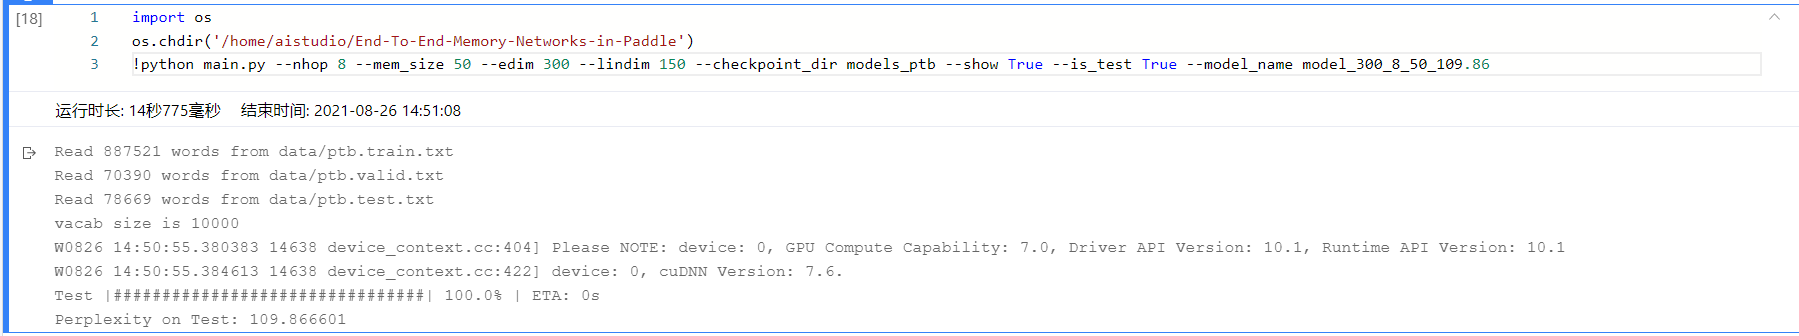
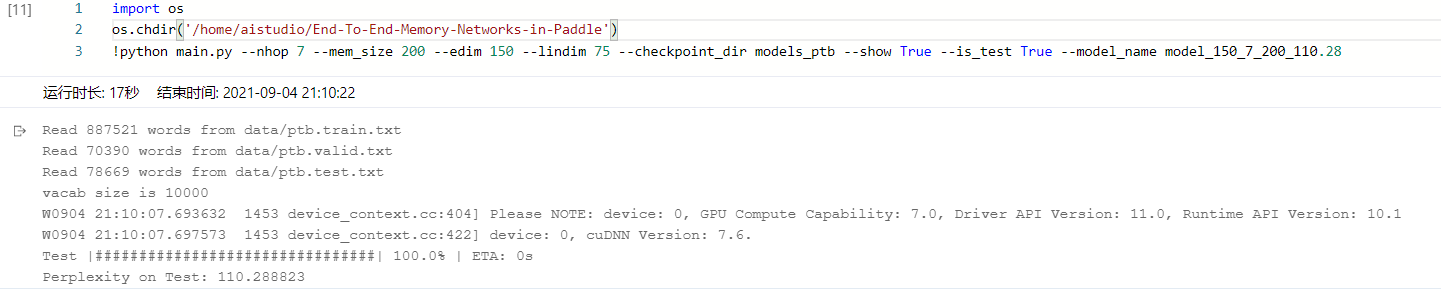
second completion

Changed region(s): [[0.0, 0.0, 1.0, 1.0]]

diff --git a/data.py b/data.py
@@ -4,18 +4,22 @@ from collections import Counter
 
 def read_data(fname, word2idx):
     """
-    data被处理成了一个一维向量，每一个值都是一个单词对应的编码，2个句子之间采用特殊字符<eos>分隔。
+    data被处理成了一个一维向量，每一个值都是一个单词对应的编码，
+    2个句子之间采用特殊字符<eos>分隔。
+    :param fname: 要读取的文件名
+    :param word2idx: 词典
+    :return: 处理好的词向量
     """
     if os.path.isfile(fname):
         with open(fname) as f:
             lines = f.readlines()
     else:
-        raise(Exception("[!] Data %s not found" % fname))
+        raise (Exception("[!] Data %s not found" % fname))
 
     words = []
     for line in lines:
         words.extend(line.split())
-    
+
     print("Read %s words from %s" % (len(words), fname))
 
     data = list()
@@ -26,7 +30,13 @@ def read_data(fname, word2idx):
         data.append(word2idx['<eos>'])
     return data
 
+
 def load_vocab(fname):
+    """
+    加载词典
+    :param fname: 词典存储名
+    :return: 词典
+    """
     word2idx = {}
     with open(fname, "r") as f:
         for line in f:

diff --git a/main.py b/main.py
@@ -43,18 +43,22 @@ config = parser.parse_args()
 if __name__ == '__main__':
     paddle.set_device("gpu")
 
-    vocab_path = os.path.join(config.data_dir, "%s.vocab.txt" % config.data_name)
+    vocab_path = os.path.join(config.data_dir,
+                              "%s.vocab.txt" % config.data_name)
     word2idx = load_vocab(vocab_path)
 
     if not os.path.exists(config.checkpoint_dir):
         os.makedirs(config.checkpoint_dir)
 
     train_data = read_data(
-        os.path.join(config.data_dir, "%s.train.txt" % config.data_name), word2idx)
+        os.path.join(config.data_dir, "%s.train.txt" % config.data_name),
+        word2idx)
     valid_data = read_data(
-        os.path.join(config.data_dir, "%s.valid.txt" % config.data_name), word2idx)
+        os.path.join(config.data_dir, "%s.valid.txt" % config.data_name),
+        word2idx)
     test_data = read_data(
-        os.path.join(config.data_dir, "%s.test.txt" % config.data_name), word2idx)
+        os.path.join(config.data_dir, "%s.test.txt" % config.data_name),
+        word2idx)
 
     idx2word = dict(zip(word2idx.values(), word2idx.keys()))
     config.nwords = len(word2idx)

diff --git a/model.py b/model.py
@@ -1,3 +1,3 @@
 version https://git-lfs.github.com/spec/v1
-oid sha256:b5d7cacb8bec5feff120ec56c2871ae8c43987d1603baf66ce664a9585d8da7b
-size 8758
+oid sha256:933a1b7ec83ce2f6c14331128b7e65a942cda010ba58a5e2d7480d024663d48f
+size 9653

diff --git a/README.md b/README.md
@@ -32,7 +32,7 @@
 
 其中：
 data文件夹下保存已经处理好的2个数据集(ptb与text8)  
-models_ptb保存在ptb数据集上训练的模型，命名格式为`model_edim_nhop_memsize_testppl`,如`model_300_8_50_109.86`表示超参embedding_dim=300,nhop=8,mem_size=50下训练出的模型，模型在test上的perplexity为109.86  
+models_ptb保存在ptb数据集上训练的模型，命名格式为`model_edim_nhop_memsize_testppl`,如`model_150_7_200_110.28`表示超参embedding_dim=150,nhop=7,mem_size=200下训练出的模型，模型在test上的perplexity为110.28  
 models_text8保存在text8数据集上训练好的模型。  
 
 ## 使用
@@ -72,19 +72,19 @@ optional arguments:
   其中`--show`选项需要安装progress库。
 ### 训练
 ```bash
-python main.py --nhop 8 --mem_size 50 --edim 300 --lindim 150 --checkpoint_dir checkpoints --show True
+python main.py --nhop 7 --mem_size 200 --edim 150 --lindim 75 --checkpoint_dir checkpoints --show True
 ```
 ### 预测
 ```bash
-python main.py --nhop 8 --mem_size 50 --edim 300 --lindim 150 --checkpoint_dir checkpoints --show True --is_test True
+python main.py --nhop 7 --mem_size 200 --edim 150 --lindim 75 --checkpoint_dir checkpoints --show True --is_test True
 ```
 ### 使用已训练好的模型
 ```bash
-python main.py --nhop 8 --mem_size 50 --edim 300 --lindim 150 --checkpoint_dir models_ptb --show True --is_test True --model_name model_300_8_50_109.86
+python main.py --nhop 7 --mem_size 200 --edim 150 --lindim 75 --checkpoint_dir models_ptb --show True --is_test True --model_name model_150_7_200_110.28
 python main.py --edim 500 --lindim 250 --nhop 7 --mem_size 100 --data_name text8 --checkpoint_dir models_text8 --model_name model_500_7_100_146.7 --show True --is_test True
 ```
 ## 性能
-在ptb数据集上，使用embedding_dim=300,nhop=8,mem_size=50训练，模型在test上的perplexity为109.86
+在ptb数据集上，使用embedding_dim=150,nhop=7,mem_size=200训练，模型在test上的perplexity为110.28
 ![ptb](./images/ptb.png)
-在text8数据集上，使用embedding_dim=500,nhop=7,mem_size=100训练，模型在test上的perplexity为146.70
+在text8数据集上，使用embedding_dim=500,nhop=7,mem_size=100训练，模型在test上的perplexity为146.72
 ![text8](./images/text8.png)
